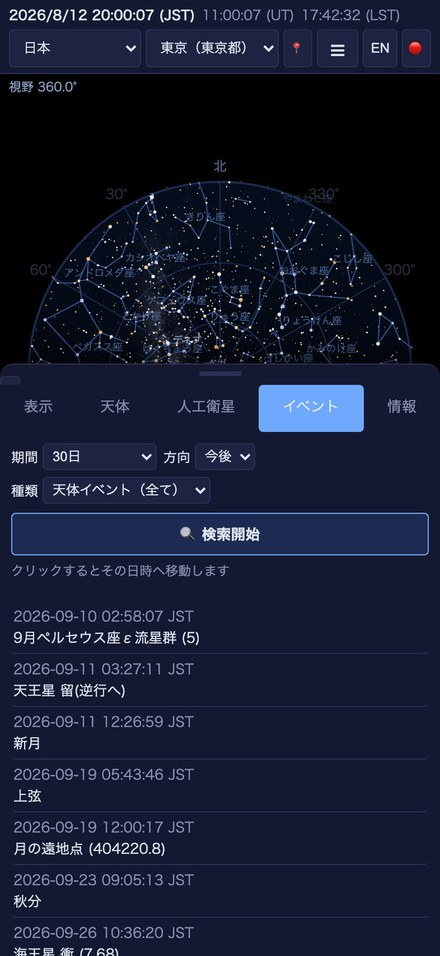
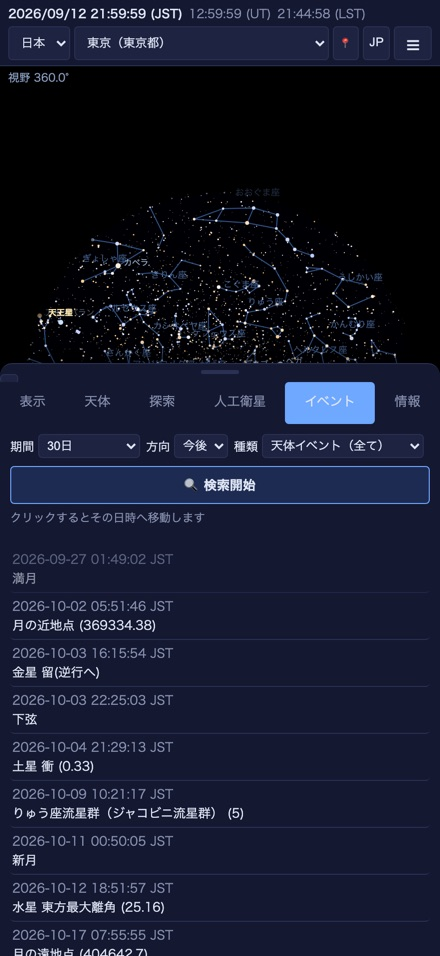
公開ページの無料版の図を撮り直す
9/7 のもので、2.2 の画面と離れていた。撮影の台本を
previews/shoot_pages_free.py に起こした (Pro 側の shoot_pages_pro.py の対)。

流星群の二枚を撮り分けた。どちらも「なよろのふたご座」になっていて、
二つ並べる意味が無かった。いまは東京のペルセウス座 (ふだんの空で
群を出すとこうなる) と、なよろのふたご座 (暗い空の極大) の対である。

撮影で踏んだところを台本に書き残した:

- 星座絵は loadConstellationArt() を呼ばないと来ない。設定を立てる
  だけだと、全天の図と見分けの付かないものが撮れる
- 惑星のテクスチャは二段で来る。loadPlanetTextures() が持ってくるの
  は索引だけで、画像は textureFor() が最初に呼ばれたときに読み始める。
  一度描いてから待ち、開き直してから撮ること
- drawPlanetView() は直に呼べない (引数の形が違う)

Changed region(s): [[0.0, 0.1517, 0.975, 1.0], [0.0, 0.0, 1.0, 0.1213]]

diff --git a/manual/index.html b/manual/index.html
@@ -88,9 +88,10 @@ Planisphere &amp; planetarium — user manual (for 2.2)</div>
   <figure><img src="img/sky-conart.jpg" alt="星座絵" loading="lazy">
     <figcaption>星座絵 — 86 星座分</figcaption></figure>
   <figure><img src="img/sky-planet.jpg" alt="惑星の拡大表示" loading="lazy">
-    <figcaption>惑星の拡大 — 環と衛星、諸元まで</figcaption></figure>
+    <figcaption>惑星の拡大 — 木星とガリレオ衛星、諸元まで</figcaption></figure>
   <figure><img src="img/sky-meteors.jpg" alt="流星群" loading="lazy">
-    <figcaption>流星群 — 輻射点と予想出現数</figcaption></figure>
+    <figcaption>流星群 — ペルセウス座、東京の夜明け前。
+    輻射点と予想出現数（57 個/時）</figcaption></figure>
   <figure><img src="img/sky-events.jpg" alt="イベント一覧" loading="lazy">
     <figcaption>イベント — 日食・月食、合・衝ほか</figcaption></figure>
   <figure><img src="img/sky-nayoro.jpg" alt="ふたご座流星群（なよろ）"
